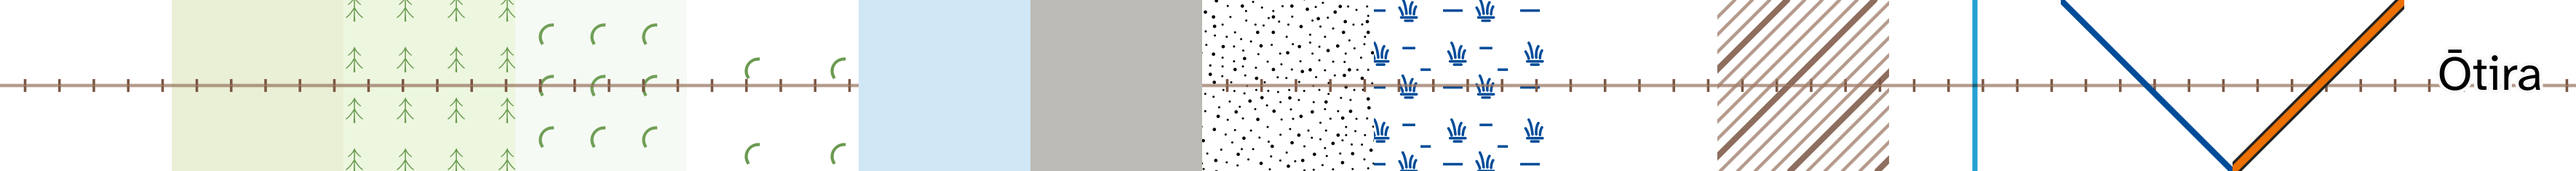
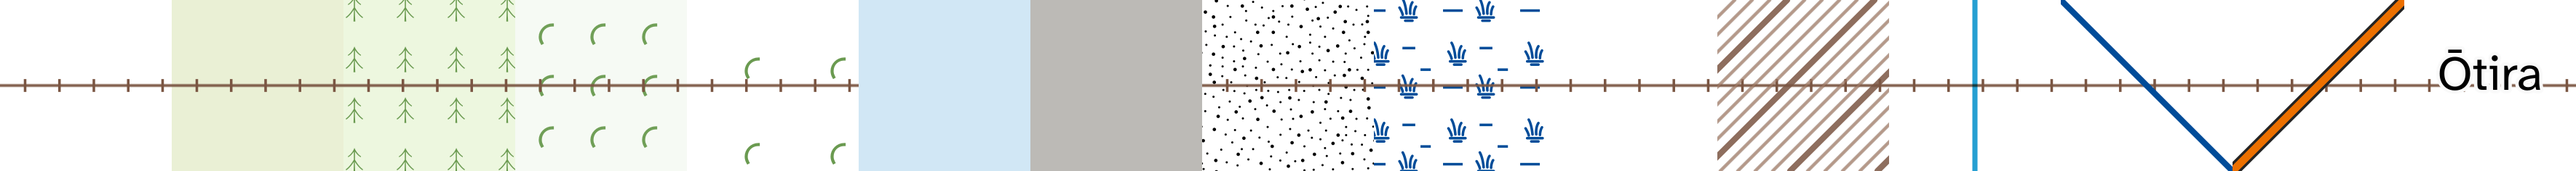
feat(qgis): depression contours take the index ink (0114).
The line holds in greyscale and red light where a name cuts its ticks.
Ice contours off the ice and the floodgate on water, urban and under a
name are not gated, each with a written reason. Reading the type
column on landuse and structure_line is not applied: those categories
are unstyled random colours. 12 of 1146 symbol tiles fail.

Changed region(s): [[0.4661, 0.4746, 0.9633, 0.5042], [0.0, 0.4746, 0.3418, 0.5042], [0.9944, 0.4746, 1.0, 0.5042]]

diff --git a/src/nzat/qgis/symbol_tile_scenes.py b/src/nzat/qgis/symbol_tile_scenes.py
@@ -145,8 +145,24 @@ ACCEPTED = {
     "supplementary_contour": "It draws as an intermediate contour (log 0054).",
 }
 
-# Fills a class cannot sit on.
-NOT_ON = {}
+# Scenes that say nothing about a class, with the reason the page shows.
+_ICE_ONLY = "Ice contours draw only on ice."
+_GATE_ON_WATER = (
+    "The gate mark draws. The sample watercourse beside it is under the fill,"
+    " as on the stock map."
+)
+NOT_ON = {
+    "ice_contours": {
+        scene: _ICE_ONLY
+        for scene in ("native", "exotic", "scrub", "scattered", "sand", "swamp")
+    },
+    "floodgate": {
+        "water": _GATE_ON_WATER,
+        "urban": _GATE_ON_WATER,
+        # The gate is a point mark. Its sample has a watercourse line too.
+        "name": "The name wins. Its halo keeps the name clear of the mark.",
+    },
+}
 
 
 def is_point_swatch(features):
@@ -158,8 +174,8 @@ def scene_exception(key, scene, features, normal_visible):
     """Return why a tile does not gate the symbol, or None when it does."""
     if key in ACCEPTED:
         return ACCEPTED[key]
-    if scene in NOT_ON.get(key, ()):
-        return "This class does not sit on this fill."
+    if scene in NOT_ON.get(key, {}):
+        return NOT_ON[key][scene]
     if scene in ("water", "urban") and normal_visible < HIDDEN_BELOW:
         return "LINZ draws this class under the fill. The stock map does the same."
     if scene == "road" and is_point_swatch(features):

diff --git a/src/nzat/qgis/patch_contour.py b/src/nzat/qgis/patch_contour.py
@@ -55,10 +55,13 @@ def patch_contour(layer, style=None):
     )
     set_option(casing, "line_width", str(intermediate["casing_width_mm"]))
     fill_props = properties_map(fill.find("data_defined_properties"))
+    # A depression contour takes the index ink at the intermediate width, so
+    # the line holds in greyscale and red light where a name cuts its ticks.
     put_expr(
         fill_props,
         "outlineColor",
-        'CASE WHEN "elevation" IS NOT NULL AND round("elevation") % 100 = 0'
+        'CASE WHEN ("elevation" IS NOT NULL AND round("elevation") % 100 = 0)'
+        f" OR {DEPRESSION}"
         f" THEN {rgba_call(index['colour'], index['alpha'])}"
         f" ELSE {rgba_call(intermediate['colour'], intermediate['alpha'])} END",
     )

diff --git a/tests/qgis/test_symbol_tile_scenes.py b/tests/qgis/test_symbol_tile_scenes.py
@@ -73,3 +73,9 @@ def test_name_on_a_point_mark_is_not_gated_but_a_name_on_a_line_is():
     assert scene_exception("trig", "name", _swatch("trig")["features"], 0.3)
     track = _swatch("foot_track")["features"]
     assert scene_exception("foot_track", "name", track, 0.3) is None
+
+
+def test_ice_contours_are_not_gated_on_forest_but_are_on_ice():
+    ice = _swatch("ice_contours")["features"]
+    assert "only on ice" in scene_exception("ice_contours", "native", ice, 0.6)
+    assert scene_exception("ice_contours", "ice", ice, 0.6) is None

diff --git a/tests/qgis/test_patch_contour.py b/tests/qgis/test_patch_contour.py
@@ -123,6 +123,8 @@ def test_supplementary_contours_dash_and_depressions_gain_ticks():
     assert "0.35" in fill_width.get("value")
     assert "elevation" in fill_width.get("value")
     assert "color_rgba(122,85,66,217)" in fill_color.get("value")
+    # Catches a depression contour left in the pale intermediate ink (log 0114).
+    assert "'depression'" in fill_color.get("value").split("THEN")[0]
     dash = lines[1].find(
         "data_defined_properties//Option[@name='customDash']/Option[@name='expression']"
     )

diff --git a/BACKLOG.md b/BACKLOG.md
@@ -1,7 +1,7 @@
 # Backlog
 
-Status as of 2026-11-10, after log 0113. Start with "Next work" below.
-Contours draw solid again (log 0110): commit 8bf7282 had dashed every contour. `tools/render_symbol_tiles.py` draws each legend symbol on each fill and across each conflict; `tools/export_symbol_tiles.py` scores them (log 0111): 476 of 1146 tiles fail with the reduced-acuity condition (F-32, log 0112); 335 without it. After the score rules and thicker point marks and thin lines (log 0113), 17 tiles and 7 symbols fail. Josh: all symbology must pass before the tile and vector work. The halo stays 0.4 mm. Roads have their dark casing again; commit 4f18cee had covered it. The one-lane casing is 0.6 mm. The site page `/symbol-tiles/` shows the tiles and scores. The `/symbols/` crops and the legend picture are redrawn after both fixes; `squares/accessible-sheets` is applied again. The 445 sheet rasters still predate the fixes (N-7).
+Status as of 2026-11-10, after log 0114. Start with "Next work" below.
+Contours draw solid again (log 0110): commit 8bf7282 had dashed every contour. `tools/render_symbol_tiles.py` draws each legend symbol on each fill and across each conflict; `tools/export_symbol_tiles.py` scores them (log 0111): 476 of 1146 tiles fail with the reduced-acuity condition (F-32, log 0112); 335 without it. After the score rules and thicker point marks and thin lines (log 0113), 17 tiles and 7 symbols fail. Josh: all symbology must pass before the tile and vector work. The halo stays 0.4 mm. 12 tiles and 4 symbols fail after log 0114. Do not switch `landuse` or `structure_line` to the `type` column: the per-type categories are unstyled random colours (log 0114). Roads have their dark casing again; commit 4f18cee had covered it. The one-lane casing is 0.6 mm. The site page `/symbol-tiles/` shows the tiles and scores. The `/symbols/` crops and the legend picture are redrawn after both fixes; `squares/accessible-sheets` is applied again. The 445 sheet rasters still predate the fixes (N-7).
 Label placement (G2, B-31) is parked. N-1 to N-4 paint is in apply (logs 0097–0101). Stream is `#004C99` (log 0105; `#00276D` rejected beside tracks). Map themes are `Map5View-paper` and `Map5View-all` (logs 0103, 0104). N-6 legend rows are in the swatch table. Josh signed off the BX24 face (log 0107). The Shannon bivouac tent is 2.5 mm with the name off the mark (log 0109). N-8 vector parity is deferred. Legend classes that are missing on BX24 have extra 4 km squares (log 0108).
 `tools/render_sheets.py` draws all 445 sheet faces as 150 dpi GeoTIFFs, outside the repo. Flat names are not pinned off BX24. The sheets are a source for B-27 (log 0091). Those rasters predate the open foot-track fix, so open foot tracks show the closed cross (log 0092).
 `tools/render_legend.py` draws the accessible swatches into the sheet legend (B-46, log 0092).

diff --git a/docs/research-log/0114-depression-ink-and-type-column.md b/docs/research-log/0114-depression-ink-and-type-column.md
@@ -1,0 +1,57 @@
+# 0114 — Depression contours in the index ink; the `type` column is not the fix
+
+**Date:** 2026-11-10
+
+## Question
+
+Seven symbols still failed the test tiles after log 0113. Which fails are a
+style fault, which are a scene that cannot occur, and does reading the
+`type` column give cemetery and training track their LINZ symbols?
+
+## What we did
+
+- Depression contours: the line takes the index ink at the intermediate
+  width. The ticks were already in the index ink.
+- Added written reasons for scenes that say nothing about a class.
+- Tested the `type` idea on a scratch copy of the project before applying
+  it: set the `landuse` and `structure_line` renderers from `feature_type`
+  to `type` and drew twelve symbols.
+
+## What we found
+
+- **Depression contours** pass under a name in greyscale and red light. The
+  pale intermediate ink had carried the line; a name halo cut the ticks,
+  and nothing was left.
+- **Ice contours** on forest, scrub, sand and swamp are not gated: ice
+  contours draw only on ice. **Floodgate** on water and urban is not gated:
+  the gate bar draws, and the sample watercourse beside it is under the
+  fill, as on the stock map. Under a name the floodgate follows the
+  point-mark rule (log 0113).
+- **Reading `type` is wrong.** The two layers categorise on a
+  `feature_type` column that the data does not have, so every feature
+  takes the NULL category. With `type`, each class takes its own category,
+  and those categories are unstyled: QGIS random colours (orange, purple,
+  lime). LINZ styled only the NULL category. Stock `Map5View` hides both
+  layers, so the stock sheet never shows them. We did not apply the change.
+- The printed legend draws cemetery as a dashed outline with crosses,
+  training track as a dashed oval, and weir as a thin blue line with a
+  black bar. Our `Map5View-all` draws cyan slabs and a thick blue bar.
+- 12 tiles and 4 symbols fail: cemetery and training track (protanopia),
+  and unmetalled road and one-lane bridge on the urban fill under reduced
+  acuity.
+
+## What changed
+
+- `src/nzat/qgis/patch_contour.py`, `tests/qgis/test_patch_contour.py`.
+- `src/nzat/qgis/symbol_tile_scenes.py`: `NOT_ON` holds a reason per scene.
+- `site/src/data/symbol-tiles.json`, the tile strips, the page text.
+
+## Confidence & gaps
+
+Grade D for the scores. The `type` result is a direct render, grade B.
+
+- Josh asked for owned symbols for every `landuse` and `structure_line`
+  class that has a printed legend row. Not started.
+- Earlier advice in this project to "read `type`" for these layers is
+  withdrawn. `patch_springs.py` does set `water_point` to `type`; that
+  layer's categories are styled.
